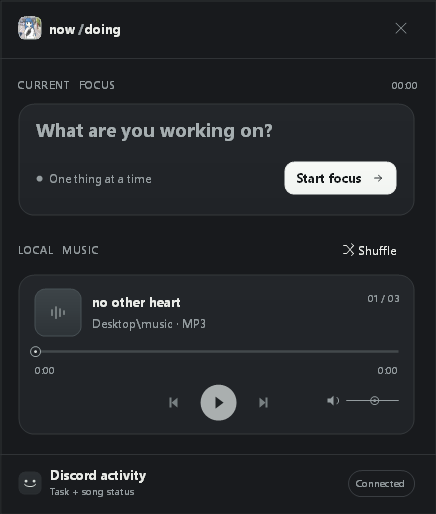
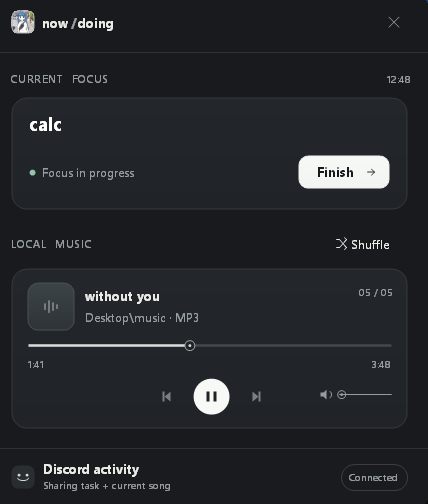
fix readme screenshots order

diff --git a/README.md b/README.md
@@ -2,9 +2,13 @@
 
 i made a small windows app where i can set what im studying and has its own local mini music player. it shows what im studying (task i set on the app) and the song im actively listening to on my discord status.
 
-![the app](<img width="430" height="509" alt="image" src="https://github.com/user-attachments/assets/7c06506c-9db2-47ad-b6e6-17d984380fe7" />
-)
-what it looks like on discord profile: <img width="297" height="367" alt="image" src="https://github.com/user-attachments/assets/1a146b5f-544c-4b5b-aaf0-02440a476327" />
+## the app
+
+![the app ui](preview.png)
+
+## what it looks like on discord
+
+<img width="297" height="367" alt="discord profile status" src="https://github.com/user-attachments/assets/1a146b5f-544c-4b5b-aaf0-02440a476327" />
 
 ## using it
 
